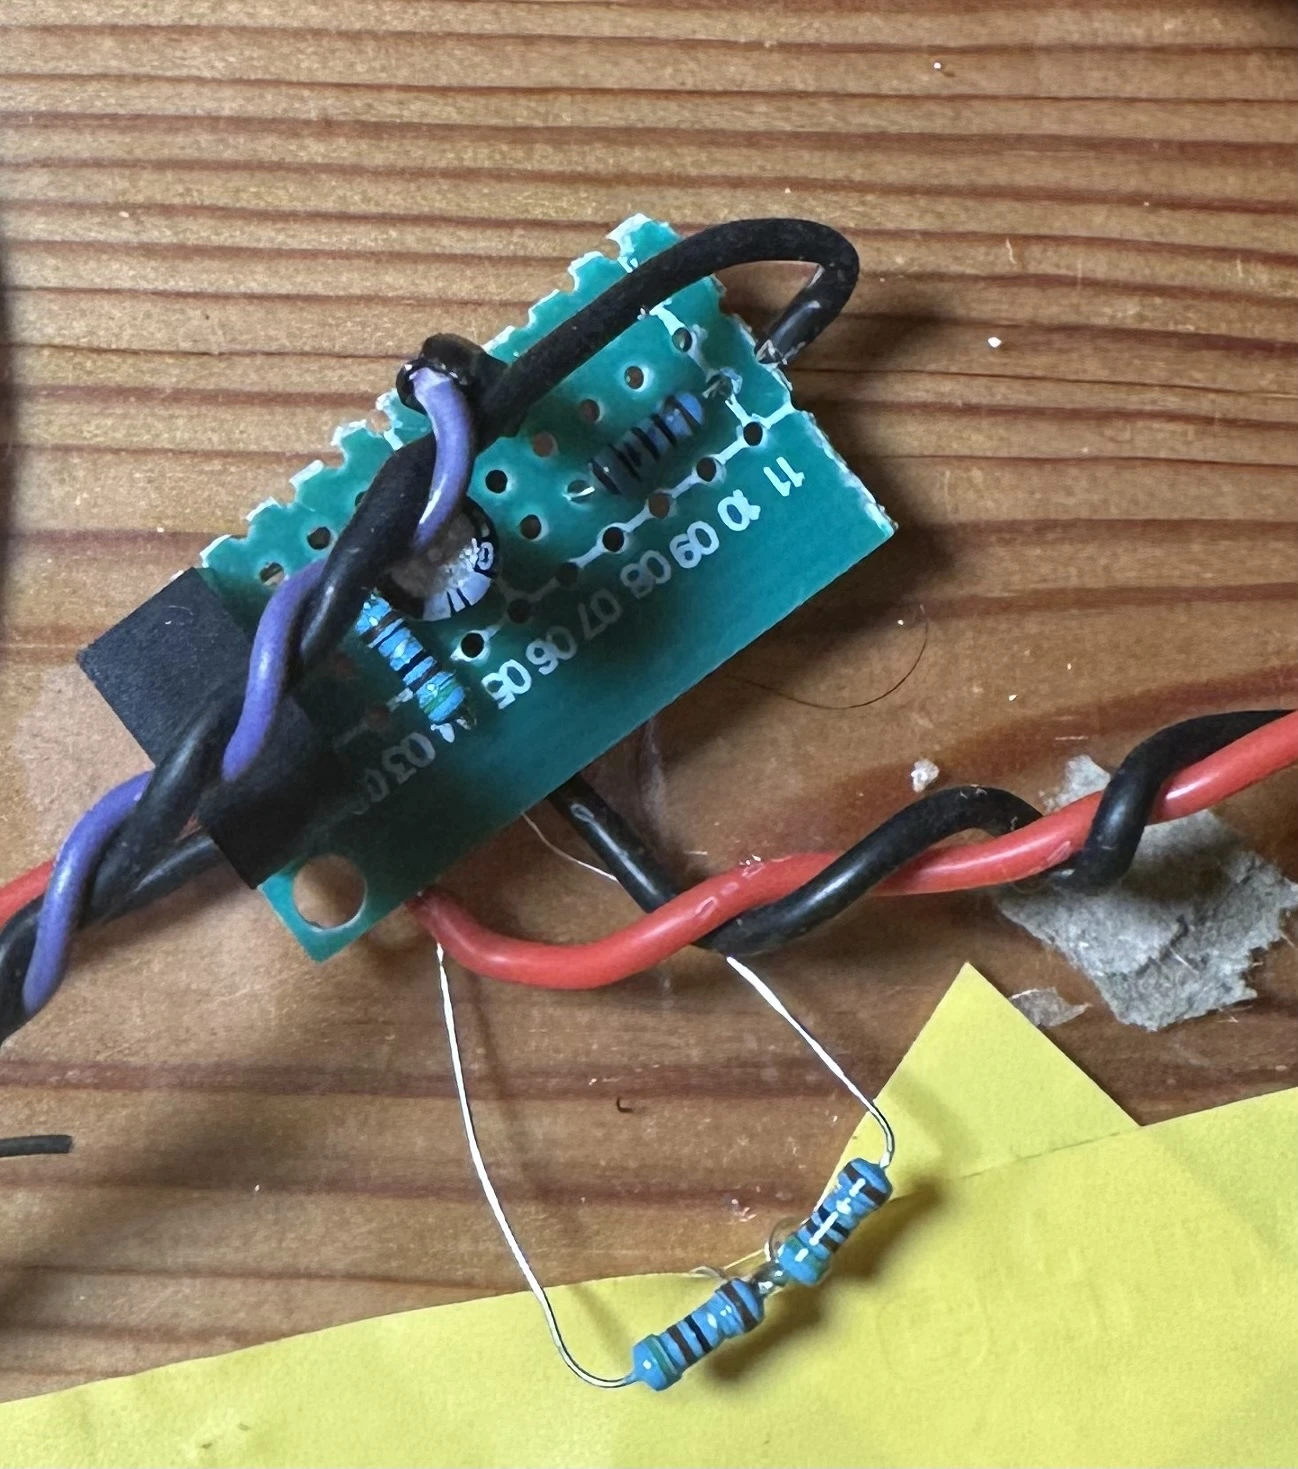
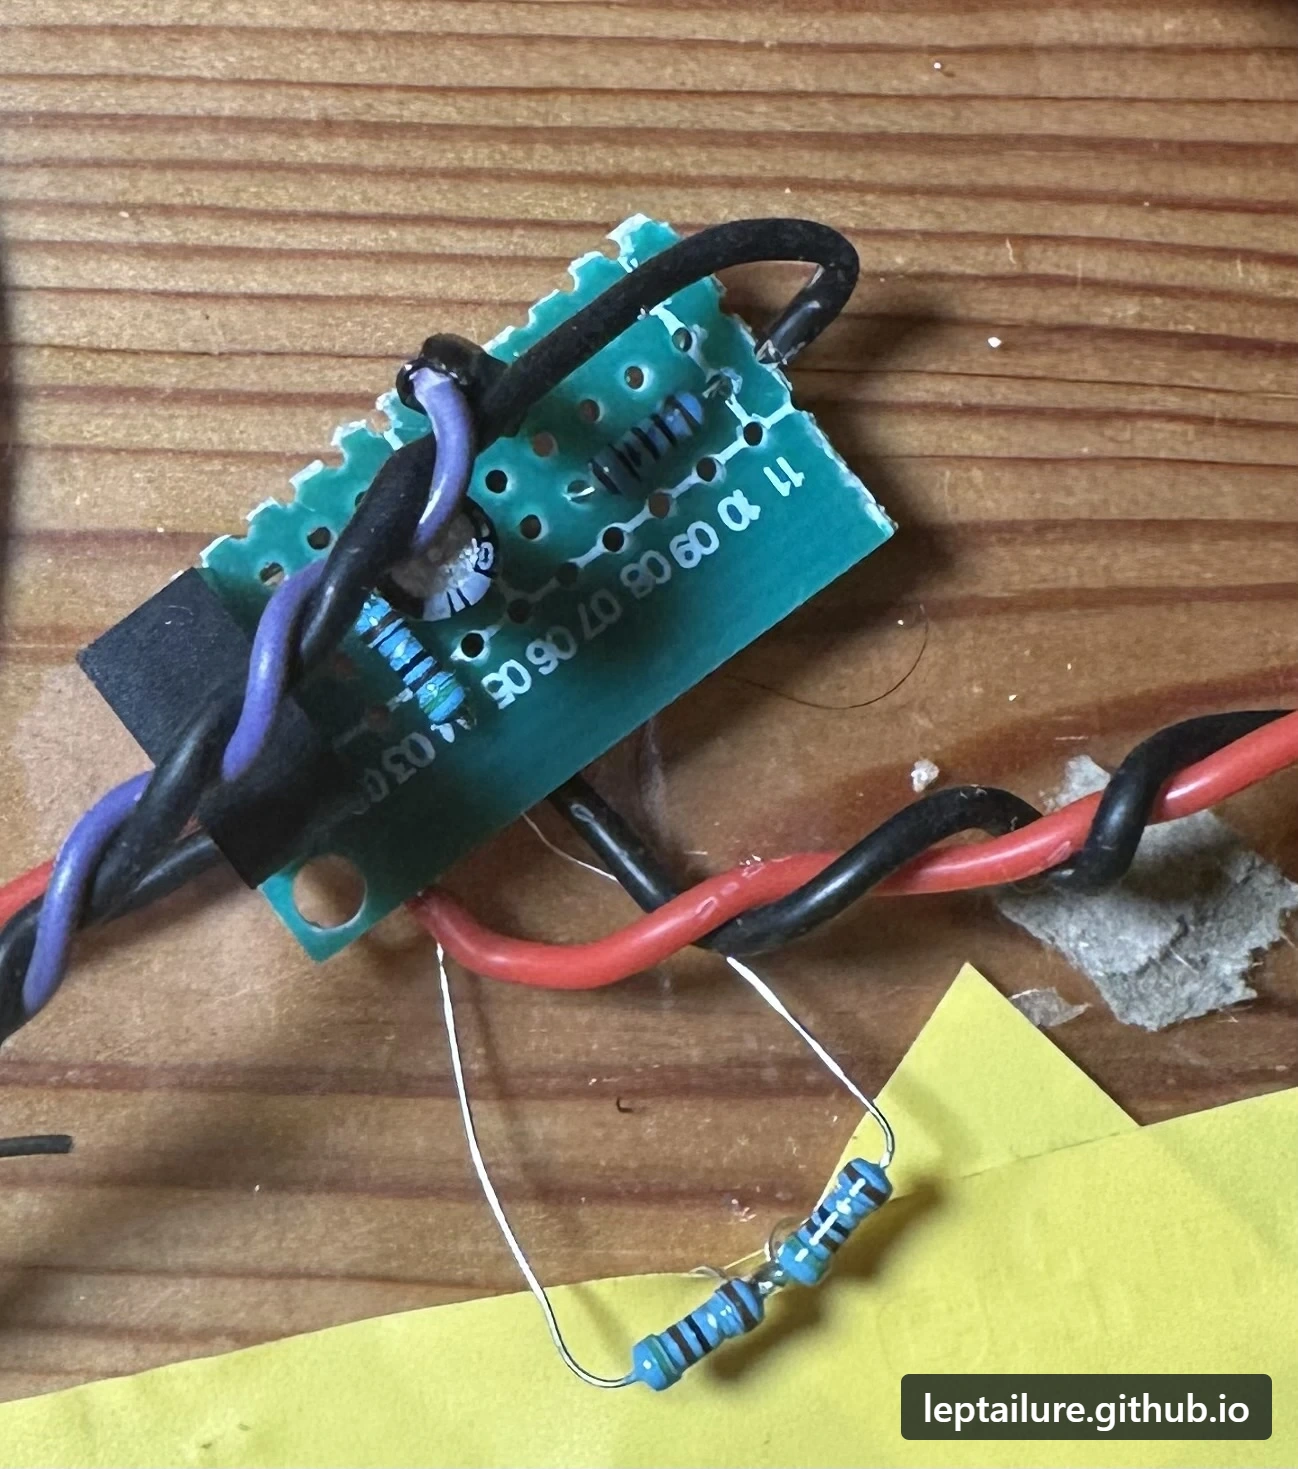
Publish airflow PCB gallery and watermark project images

Changed region(s): [[0.678, 0.919, 0.9861, 0.9803]]

diff --git a/igbt-dg340/index.html b/igbt-dg340/index.html
@@ -44,11 +44,11 @@
         <span class="blue"><b>C3 · Bleu</b> Tension collecteur-émetteur V<sub>CE</sub></span>
       </div>
       <figure class="scope">
-        <h3>Essai 1 · −14,00 V sur C1</h3><a href="media/essai-2800a-fr.jpg"><img src="media/essai-2800a-fr.jpg" width="2471" height="1407" alt="Essai 1 · −14,00 V sur C1"></a>
+        <h3>Essai 1 · −14,00 V sur C1</h3><a href="media/essai-2800a-fr.jpg?v=wm1"><img src="media/essai-2800a-fr.jpg?v=wm1" width="2471" height="1407" alt="Essai 1 · −14,00 V sur C1"></a>
         <figcaption>Le curseur Y2 indique −14,00 V sur C1. Après la coupure, le courant de la bobine décroît en roue libre. Base de temps : 100 µs/div.</figcaption>
       </figure>
       <figure class="scope">
-        <h3>Essai 2 · IGBT endommagé (−14,25 V sur C1)</h3><a href="media/essai-2850a-fr.jpg"><img src="media/essai-2850a-fr.jpg" width="2675" height="1553" alt="Essai 2 · IGBT endommagé (−14,25 V sur C1)"></a>
+        <h3>Essai 2 · IGBT endommagé (−14,25 V sur C1)</h3><a href="media/essai-2850a-fr.jpg?v=wm1"><img src="media/essai-2850a-fr.jpg?v=wm1" width="2675" height="1553" alt="Essai 2 · IGBT endommagé (−14,25 V sur C1)"></a>
         <figcaption>Le curseur Y2 indique −14,25 V sur C1. Après l’endommagement de l’IGBT, la capture ne montre ni coupure normale ni décroissance normale du courant en roue libre. Base de temps : 100 µs/div.</figcaption>
       </figure>
     </section>
@@ -62,11 +62,11 @@
       </dl>
       <div class="drawings">
         <figure>
-          <a href="media/schema-fr.png"><img src="media/schema-fr.png" width="1065" height="546" alt="Schéma d’essai avec bobine, shunt en constantan, masse de l’oscilloscope et groupes de six ES8J en parallèle." loading="lazy"></a>
+          <a href="media/schema-fr.png?v=wm1"><img src="media/schema-fr.png?v=wm1" width="1065" height="546" alt="Schéma d’essai avec bobine, shunt en constantan, masse de l’oscilloscope et groupes de six ES8J en parallèle." loading="lazy"></a>
           <figcaption>Le shunt en constantan est en série avec la bobine. Chaque symbole de diode sur le schéma représente un groupe de six ES8J en parallèle.</figcaption>
         </figure>
         <figure>
-          <a href="media/shunt-fr.png"><img src="media/shunt-fr.png" width="582" height="571" alt="Shunt en constantan de 5 mΩ." loading="lazy"></a>
+          <a href="media/shunt-fr.png?v=wm1"><img src="media/shunt-fr.png?v=wm1" width="582" height="571" alt="Shunt en constantan de 5 mΩ." loading="lazy"></a>
           <figcaption>Fil Ø 1,5 mm, entraxe 10 mm et hauteur indiquée de 5 mm.</figcaption>
         </figure>
       </div>
@@ -74,12 +74,12 @@
     <section id="photos">
       <h2>Photos du banc et des composants</h2>
       <div class="gallery">
-        <figure><a href="media/banc.webp"><img src="media/banc.webp" width="3024" height="4032" alt="Vue d’ensemble du banc d’essai" loading="lazy"></a><figcaption>Vue d’ensemble du banc d’essai</figcaption></figure>
-        <figure><a href="media/bobinage.webp"><img src="media/bobinage.webp" width="3021" height="1391" alt="Bobinage en cuivre émaillé sur son support" loading="lazy"></a><figcaption>Bobinage en cuivre émaillé sur son support</figcaption></figure>
-        <figure><a href="media/support.webp"><img src="media/support.webp" width="3024" height="4032" alt="Support de bobinage avant enroulement" loading="lazy"></a><figcaption>Support de bobinage avant enroulement</figcaption></figure>
-        <figure><a href="media/igbt.webp"><img src="media/igbt.webp" width="1274" height="3838" alt="Composants IGBT DG340 sur barres de connexion" loading="lazy"></a><figcaption>Composants IGBT DG340 sur barres de connexion</figcaption></figure>
-        <figure><a href="media/tlp152.webp"><img src="media/tlp152.webp" width="510" height="943" alt="Vue rapprochée du photocoupleur TLP152" loading="lazy"></a><figcaption>Vue rapprochée du photocoupleur TLP152</figcaption></figure>
-        <figure><a href="media/commande.webp"><img src="media/commande.webp" width="1298" height="1469" alt="Carte de commande de grille câblée" loading="lazy"></a><figcaption>Carte de commande de grille câblée</figcaption></figure>
+        <figure><a href="media/banc.webp?v=wm1"><img src="media/banc.webp?v=wm1" width="3024" height="4032" alt="Vue d’ensemble du banc d’essai" loading="lazy"></a><figcaption>Vue d’ensemble du banc d’essai</figcaption></figure>
+        <figure><a href="media/bobinage.webp?v=wm1"><img src="media/bobinage.webp?v=wm1" width="3021" height="1391" alt="Bobinage en cuivre émaillé sur son support" loading="lazy"></a><figcaption>Bobinage en cuivre émaillé sur son support</figcaption></figure>
+        <figure><a href="media/support.webp?v=wm1"><img src="media/support.webp?v=wm1" width="3024" height="4032" alt="Support de bobinage avant enroulement" loading="lazy"></a><figcaption>Support de bobinage avant enroulement</figcaption></figure>
+        <figure><a href="media/igbt.webp?v=wm1"><img src="media/igbt.webp?v=wm1" width="1274" height="3838" alt="Composants IGBT DG340 sur barres de connexion" loading="lazy"></a><figcaption>Composants IGBT DG340 sur barres de connexion</figcaption></figure>
+        <figure><a href="media/tlp152.webp?v=wm1"><img src="media/tlp152.webp?v=wm1" width="510" height="943" alt="Vue rapprochée du photocoupleur TLP152" loading="lazy"></a><figcaption>Vue rapprochée du photocoupleur TLP152</figcaption></figure>
+        <figure><a href="media/commande.webp?v=wm1"><img src="media/commande.webp?v=wm1" width="1298" height="1469" alt="Carte de commande de grille câblée" loading="lazy"></a><figcaption>Carte de commande de grille câblée</figcaption></figure>
       </div>
     </section>
   </main>

diff --git a/index.html b/index.html
@@ -54,7 +54,7 @@
     <div class="academic-heading"><h3>Projets académiques</h3><span class="mono">ÉLECTRONIQUE ANALOGIQUE / EMBARQUÉ / LOGIQUE</span></div>
     <div class="academic-grid">
       <article class="academic" id="cardiaque"><div class="card-top"><span class="mini-index">02</span><span class="mono">AVR. — MAI 2026 · L2</span></div><h3>Compteur de<br>pulsations cardiaques</h3><p>Une chaîne de mesure, du capteur optique à l’affichage numérique.</p><details><summary>Conception & outils <span aria-hidden="true">+</span></summary><ul><li>Capteur CNY70, filtrage et amplification ; simulation sous PSpice.</li><li>Mise en forme du signal par comparateur et monostable.</li><li>Comptage et affichage sur afficheurs à sept segments.</li></ul></details><a class="text-link" href="projects/pulse-counter.html">Voir le projet <span aria-hidden="true">↗</span></a><div class="tags"><span>Analogique</span><span>PSpice</span><span>Capteurs</span></div></article>
-      <article class="academic" id="flux-air"><div class="card-top"><span class="mini-index">03</span><span class="mono">MARS 2026 · L2</span></div><h3>Détecteur de<br>flux d’air</h3><p>Détection du sens d’un flux et extension personnelle sur microcontrôleur.</p><details><summary>Conception & outils <span aria-hidden="true">+</span></summary><ul><li>CTN en pont de Wheatstone et convertisseur analogique-numérique externe.</li><li>Comparateurs et LED pour indiquer le sens du flux.</li><li>Extension personnelle sur STM32 : acquisition, traitement et affichage OLED via I²C.</li></ul></details><a class="text-link" href="projects/airflow.html">Voir le projet <span aria-hidden="true">↗</span></a><div class="tags"><span>STM32</span><span>Acquisition</span><span>I²C / OLED</span></div></article>
+      <article class="academic" id="flux-air"><div class="card-top"><span class="mini-index">03</span><span class="mono">MARS 2026 · L2</span></div><h3>Détecteur de<br>flux d’air</h3><p>Détection du sens d’un flux et extension personnelle sur microcontrôleur.</p><details><summary>Conception & outils <span aria-hidden="true">+</span></summary><ul><li>CTN en pont de Wheatstone et convertisseur analogique-numérique externe.</li><li>Comparateurs et LED pour indiquer le sens du flux.</li><li>Extension personnelle sur STM32 : acquisition, traitement et affichage OLED via I²C.</li><li>Carte de 80 × 55 mm : schéma, routage et rendu 3D.</li></ul></details><a class="text-link" href="projects/airflow.html">Voir le projet <span aria-hidden="true">↗</span></a><div class="tags"><span>STM32</span><span>Acquisition</span><span>I²C / OLED</span></div></article>
       <article class="academic" id="fpga"><div class="card-top"><span class="mini-index">04</span><span class="mono">NOV. 2025 · TP L2</span></div><h3>Détection de chute<br>sur FPGA</h3><p>Traitement des données d’un accéléromètre par une architecture logique.</p><details><summary>Conception & outils <span aria-hidden="true">+</span></summary><ul><li>Conception de modules arithmétiques et logiques en VHDL.</li><li>Détection de chute à partir de l’accéléromètre de la carte Nexys 4 DDR.</li></ul></details><a class="text-link" href="projects/fall-detection.html">Voir le projet <span aria-hidden="true">↗</span></a><div class="tags"><span>VHDL</span><span>FPGA</span><span>Nexys 4 DDR</span></div></article>
     </div>
   </section>

diff --git a/projects/airflow.html b/projects/airflow.html
@@ -8,7 +8,7 @@
   <title>Détecteur de flux d’air — Leptailure</title>
   <link rel="icon" href="../favicon.png" type="image/png">
   <link rel="stylesheet" href="../style.css?v=pages-1">
-  <link rel="stylesheet" href="academic.css?v=academic-1">
+  <link rel="stylesheet" href="academic.css?v=airflow-pcb">
 <script src="../visit-config.js" defer></script>
 <script src="../visit-tracker.js" defer></script>
 </head>
@@ -56,6 +56,24 @@
     <div class="method-grid">
       <div><h3>Acquérir et traiter</h3><p>Le convertisseur fait le lien entre le signal du montage et le programme du microcontrôleur. Le STM32 assure ensuite l’exploitation des données numériques.</p></div>
       <div><h3>Rendre l’information lisible</h3><p>L’écran OLED ajoute une interface de lecture au système. Sa commande par I²C relie la programmation embarquée à un périphérique d’affichage.</p></div>
+    </div>
+  </section>
+  <section class="project-section" aria-labelledby="carte-title">
+    <h2 id="carte-title">Conception de la carte électronique</h2>
+    <p>Le circuit imprimé réunit la mesure différentielle, l’acquisition sur STM32 et l’affichage OLED. Le schéma détaille aussi la charge et la protection de la batterie Li‑Po, l’alimentation USB‑C et la commande du buzzer.</p>
+    <div class="airflow-gallery">
+      <figure>
+        <a href="airflow-media/carte-3d.webp"><img src="airflow-media/carte-3d.webp" width="2060" height="1394" alt="Rendu 3D de la carte avec l’écran OLED, le connecteur USB-C et le buzzer." loading="lazy"></a>
+        <figcaption>Rendu 3D de la carte avec l’écran OLED, le connecteur USB-C et le buzzer.</figcaption>
+      </figure>
+      <figure>
+        <a href="airflow-media/routage.webp"><img src="airflow-media/routage.webp" width="2160" height="1389" alt="Implantation et routage du circuit imprimé de 80 × 55 mm." loading="lazy"></a>
+        <figcaption>Implantation et routage du circuit imprimé de 80 × 55 mm.</figcaption>
+      </figure>
+      <figure>
+        <a href="airflow-media/schema.webp"><img src="airflow-media/schema.webp" width="3332" height="2362" alt="Schéma électrique du détecteur avec le conditionnement du signal, le STM32, l’affichage et l’alimentation." loading="lazy"></a>
+        <figcaption>Schéma électrique du détecteur avec le conditionnement du signal, le STM32, l’affichage et l’alimentation.</figcaption>
+      </figure>
     </div>
   </section>
   <section class="project-section" aria-labelledby="bilan-title">

diff --git a/projects/academic.css b/projects/academic.css
@@ -9,3 +9,11 @@
 @media(max-width:600px){.case-summary{grid-template-columns:1fr;gap:16px;padding:20px}.case-summary div+div{border-top:1px solid var(--line);padding-top:14px}.case-navigation{flex-direction:column;gap:16px}.case-navigation a:last-child{text-align:left}.case-highlight{padding:20px}}
 @media(max-width:390px){.functional-flow{grid-template-columns:1fr}.functional-flow li{padding:17px}.functional-flow li:before{margin-bottom:10px}}
 @media(max-width:600px){.signal-branches{grid-template-columns:1fr;gap:0}}
+
+.airflow-gallery { display:grid; grid-template-columns:repeat(2,minmax(0,1fr)); gap:22px; margin-top:24px }
+.airflow-gallery figure { margin:0 }
+.airflow-gallery figure:first-child { grid-column:1 / -1 }
+.airflow-gallery a { display:block; background:var(--paper,#fffef9); border:1px solid var(--line); cursor:zoom-in }
+.airflow-gallery img { display:block; width:100%; height:auto }
+.airflow-gallery figcaption { margin-top:8px; color:var(--muted); font-size:.875rem; line-height:1.55 }
+@media(max-width:720px) { .airflow-gallery { grid-template-columns:1fr } }
